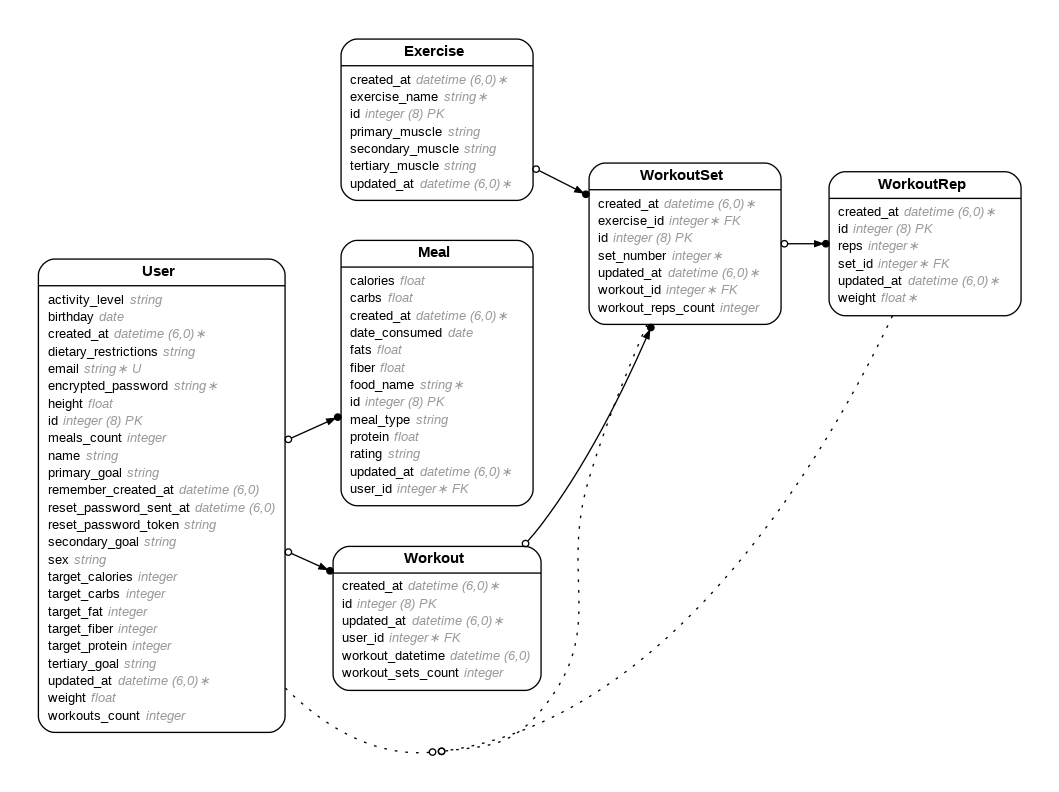
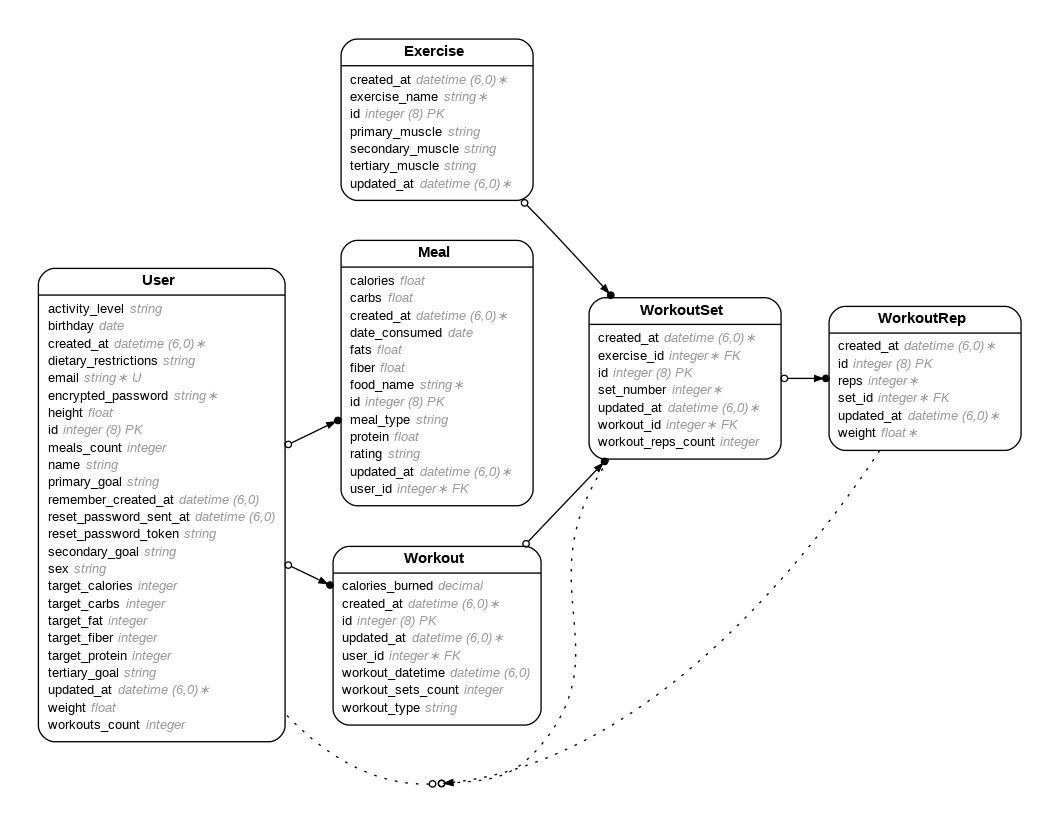
a bunch of changes idk

diff --git a/db/schema.rb b/db/schema.rb
@@ -10,7 +10,7 @@
 #
 # It's strongly recommended that you check this file into your version control system.
 
-ActiveRecord::Schema[7.1].define(version: 2025_05_21_021716) do
+ActiveRecord::Schema[7.1].define(version: 2025_05_24_053032) do
   # These are extensions that must be enabled in order to support this database
   enable_extension "plpgsql"
 
@@ -90,6 +90,8 @@ ActiveRecord::Schema[7.1].define(version: 2025_05_21_021716) do
     t.integer "workout_sets_count"
     t.datetime "created_at", null: false
     t.datetime "updated_at", null: false
+    t.string "workout_type"
+    t.decimal "calories_burned"
   end
 
 end

diff --git a/app/models/workout.rb b/app/models/workout.rb
@@ -3,8 +3,10 @@
 # Table name: workouts
 #
 #  id                 :bigint           not null, primary key
+#  calories_burned    :decimal(, )
 #  workout_datetime   :datetime
 #  workout_sets_count :integer
+#  workout_type       :string
 #  created_at         :datetime         not null
 #  updated_at         :datetime         not null
 #  user_id            :integer

diff --git a/db/migrate/20250524053032_add_details_to_workouts.rb b/db/migrate/20250524053032_add_details_to_workouts.rb
@@ -1,0 +1,6 @@
+class AddDetailsToWorkouts < ActiveRecord::Migration[7.1]
+  def change
+    add_column :workouts, :workout_type, :string
+    add_column :workouts, :calories_burned, :decimal
+  end
+end

diff --git a/config/routes.rb b/config/routes.rb
@@ -114,7 +114,5 @@ Rails.application.routes.draw do
 
   # CREATE
   post("/insert_user", { :controller => "users", :action => "create" })
-
-
   
 end
